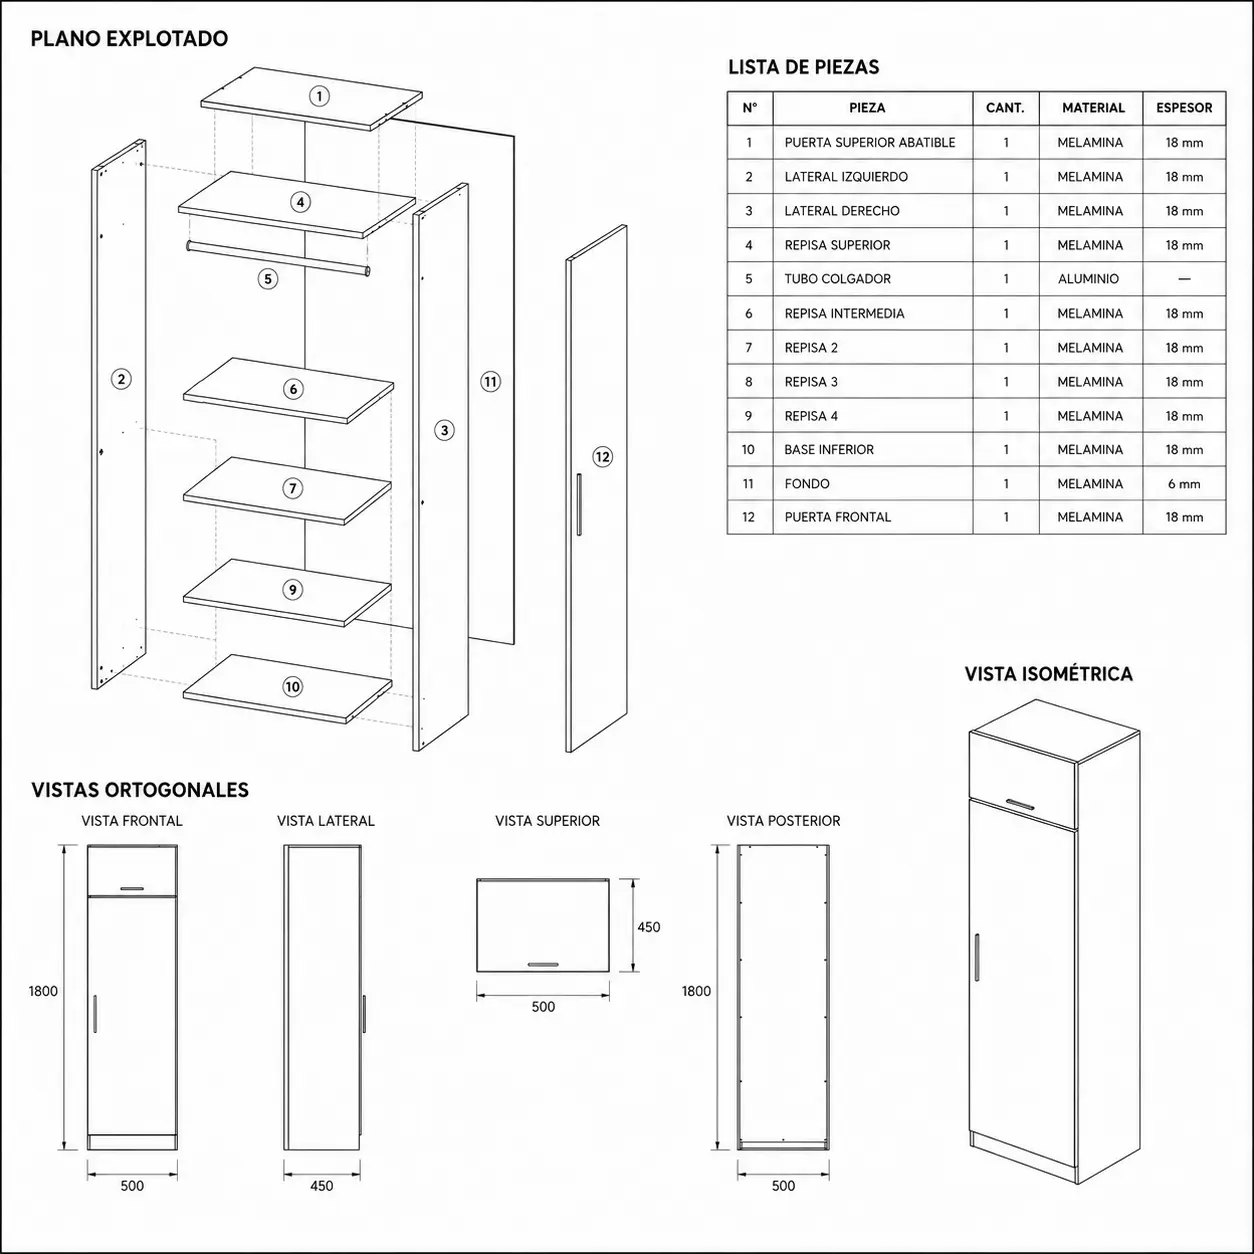
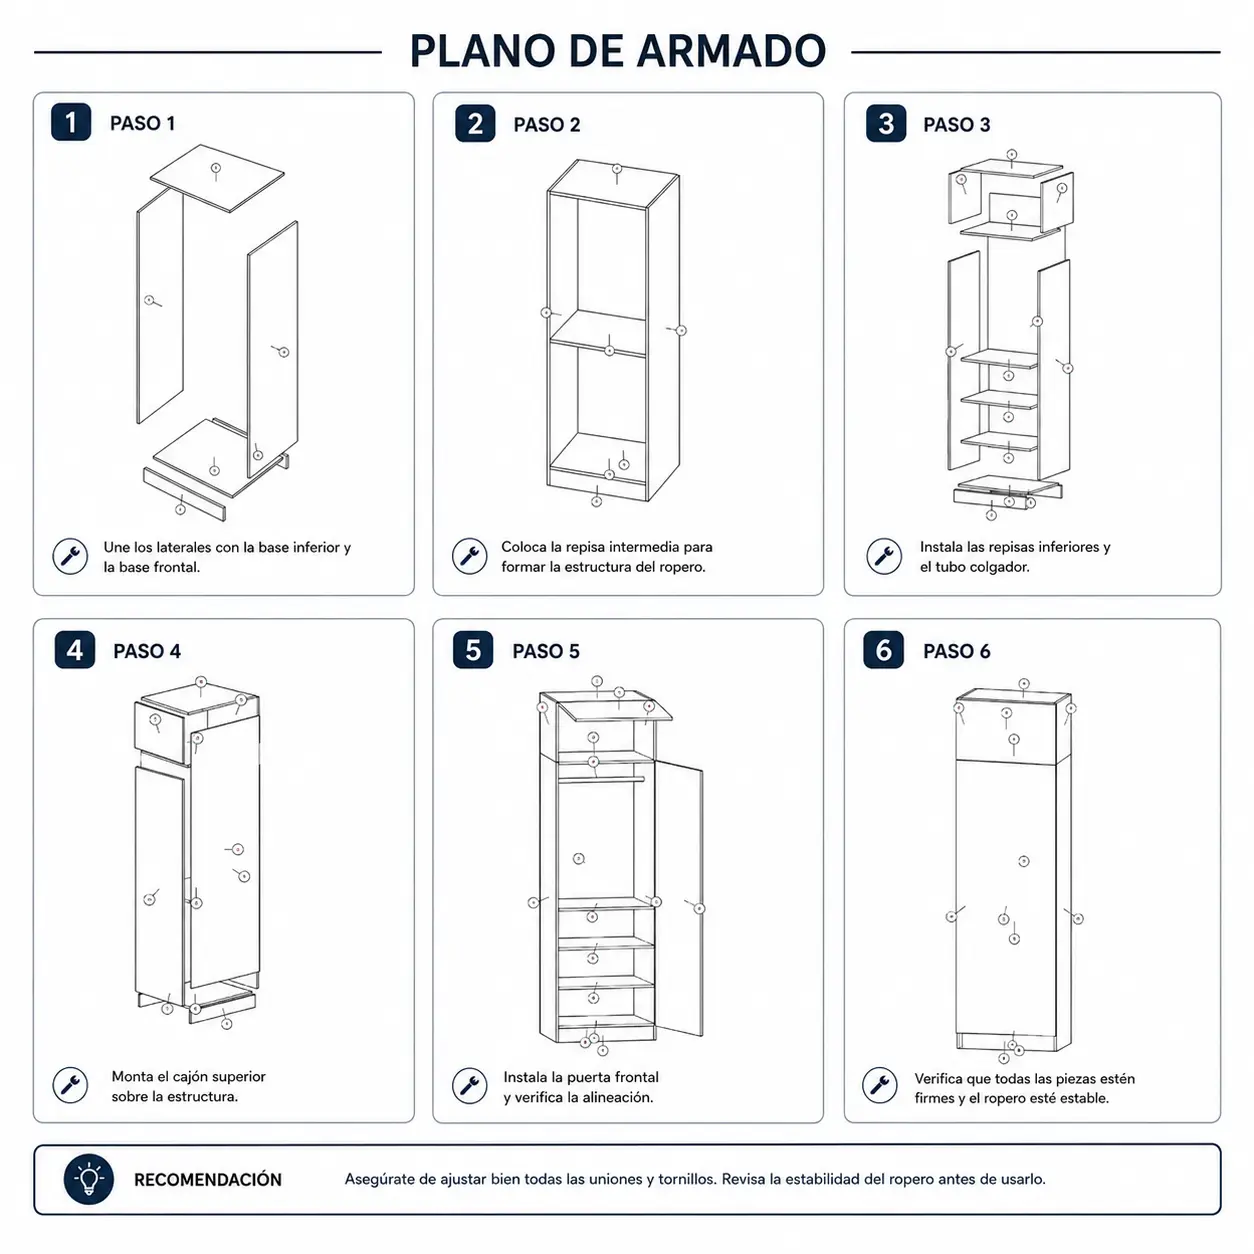
Refactor code structure for improved readability and maintainability

Changed region(s): [[0.0, 0.0, 1.0, 1.0], [0.3732, 0.2799, 0.4043, 0.311]]

diff --git a/src/app/pages/landing/components/gallery/gallery.component.html b/src/app/pages/landing/components/gallery/gallery.component.html
@@ -11,8 +11,8 @@
       <!-- Item 1 -->
       <div
         class="bg-slate-50 rounded-2xl overflow-hidden shadow-sm hover:shadow-xl transition-shadow duration-300 group border border-slate-100">
-        <div class="relative h-64 overflow-hidden">
-          <img src="/f1.jpeg" alt="Clóset Vestidor"
+        <div class="relative h-96 overflow-hidden">
+          <img src="/f3.jpeg" alt="Clóset Vestidor"
             class="w-full h-full object-cover group-hover:scale-105 transition-transform duration-500">
           <div
             class="absolute inset-0 bg-gradient-to-t from-slate-900/80 to-transparent opacity-0 group-hover:opacity-100 transition-opacity duration-300 flex items-end p-6">
@@ -30,8 +30,8 @@
       <!-- Item 2 -->
       <div
         class="bg-slate-50 rounded-2xl overflow-hidden shadow-sm hover:shadow-xl transition-shadow duration-300 group border border-slate-100">
-        <div class="relative h-64 overflow-hidden">
-          <img src="/f2.jpeg" alt="Ropero Empotrado"
+        <div class="relative h-96 overflow-hidden">
+          <img src="/f4.jpeg" alt="Ropero Empotrado"
             class="w-full h-full object-cover group-hover:scale-105 transition-transform duration-500">
           <div
             class="absolute inset-0 bg-gradient-to-t from-slate-900/80 to-transparent opacity-0 group-hover:opacity-100 transition-opacity duration-300 flex items-end p-6">
@@ -48,8 +48,8 @@
       <!-- Item 3 -->
       <div
         class="bg-slate-50 rounded-2xl overflow-hidden shadow-sm hover:shadow-xl transition-shadow duration-300 group border border-slate-100">
-        <div class="relative h-64 overflow-hidden">
-          <img src="/modelo3p.png" alt="Armario Multiusos"
+        <div class="relative h-96 overflow-hidden">
+          <img src="/f5.jpeg" alt="Armario Multiusos"
             class="w-full h-full object-cover group-hover:scale-105 transition-transform duration-500">
           <div
             class="absolute inset-0 bg-gradient-to-t from-slate-900/80 to-transparent opacity-0 group-hover:opacity-100 transition-opacity duration-300 flex items-end p-6">
@@ -57,10 +57,14 @@
           </div>
         </div>
         <div class="p-6">
-          <h3 class="text-xl font-bold text-slate-900 mb-2">Ropero con puertas abatibles
+          <h3 class="text-xl font-bold text-slate-900 mb-2">
+            Cómoda moderna de doble columna
           </h3>
-          <p class="text-sm text-slate-500">Planos de ensamblaje generados al instante y distribución interior
-            optimizada.</p>
+          <p class="text-sm text-slate-500">
+            Diseño funcional con múltiples cajones, despiece exacto y lista completa de materiales generada
+            automáticamente.
+          </p>
+
         </div>
       </div>
     </div>

diff --git a/src/app/pages/landing/components/hero/hero.component.html b/src/app/pages/landing/components/hero/hero.component.html
@@ -23,8 +23,13 @@
 
     <div class="flex flex-col sm:flex-row gap-4 justify-center items-center">
       <a routerLink="/demo"
-        class="w-full sm:w-auto px-8 py-4 rounded-full bg-gradient-to-r from-red-600 to-red-700 text-white font-bold text-lg hover:scale-105 transition-transform shadow-lg shadow-red-600/25 inline-block text-center">
-        Probar Demo
+        class="relative overflow-hidden px-10 py-5 rounded-full bg-gradient-to-r from-red-500 via-red-600 to-red-700 text-white font-extrabold text-xl shadow-2xl shadow-red-600/40 hover:scale-110 transition-all duration-300 inline-flex items-center gap-3 animate-[pulse-soft_2s_infinite]">
+
+        <span>🚀 Probar Demo Gratis</span>
+
+        <span class="text-sm bg-white/20 px-3 py-1 rounded-full">
+          2 min
+        </span>
       </a>
       <a href="https://wa.me/51914497074?text=Hola,%20me%20gustaría%20saber%20cómo%20funciona%20Maes%20IA"
         target="_blank"

diff --git a/src/app/pages/landing/components/cta/cta.component.html b/src/app/pages/landing/components/cta/cta.component.html
@@ -13,12 +13,12 @@
         sus ventas con Maes IA.
       </p>
       <div class="flex flex-col sm:flex-row justify-center gap-4">
-        <a href="https://wa.me/51914497074?text=Hola,%20quisiera%20probar%20Maes%20IA" target="_blank"
+        <a routerLink="/demo"
           class="px-10 py-5 rounded-full bg-slate-900 text-white font-bold text-lg hover:bg-slate-800 hover:scale-105 transition-all shadow-xl inline-block">
-          Probar gratis
+          Probar Demo
         </a>
+
         <a href="https://wa.me/51914497074?text=Hola,%20quisiera%20hablar%20con%20un%20asesor%20sobre%20Maes%20IA"
-          target="_blank"
           class="px-10 py-5 rounded-full bg-white/20 text-white font-bold text-lg border border-white/30 hover:bg-white/30 transition-all backdrop-blur-sm inline-block">
           Hablar con un asesor
         </a>

diff --git a/src/app/pages/landing/components/cta/cta.component.ts b/src/app/pages/landing/components/cta/cta.component.ts
@@ -1,8 +1,10 @@
 import { Component } from '@angular/core';
+import { RouterLink } from '@angular/router';
 
 @Component({
   selector: 'app-cta',
   standalone: true,
-  templateUrl: './cta.component.html'
+  imports: [RouterLink],
+  templateUrl: './cta.component.html',
 })
 export class CtaComponent {}